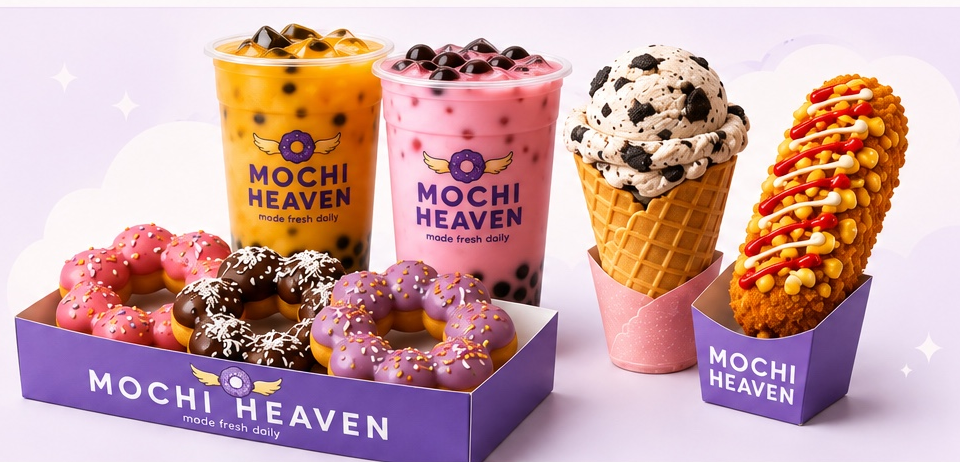
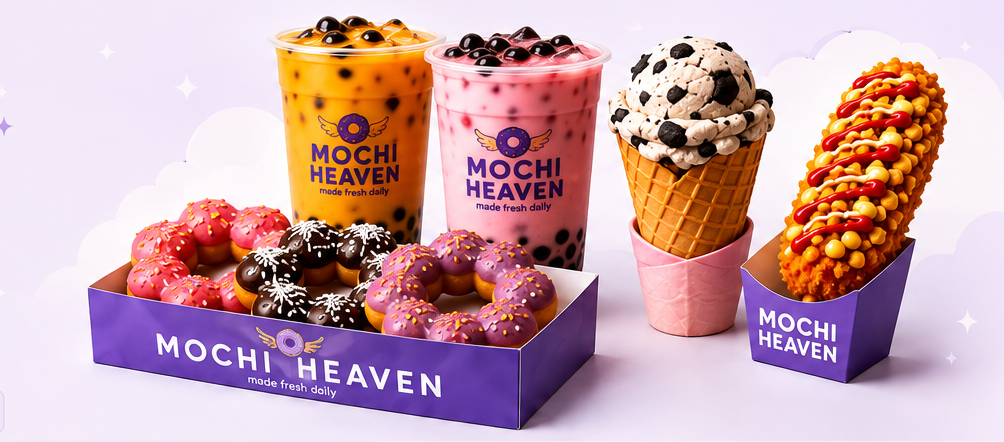
Auto-generated changes

diff --git a/frontend/src/styles.css b/frontend/src/styles.css
@@ -35,7 +35,7 @@
 .menu-toggle{display:none;background:none;border:0;color:var(--deep)}
 
 /* ---------- HERO ---------- */
-.hero{background:linear-gradient(135deg,#f7f1ff 0%,#ece0fb 60%,#f3ecfc 100%);border-bottom:1px solid #eee3fb;overflow:hidden;position:relative}
+.hero{background:linear-gradient(135deg,#f4ebfb 0%,#efe4f9 58%,#f3e9fb 100%);border-bottom:1px solid #eee3fb;overflow:hidden;position:relative}
 .hero:before{content:"";position:absolute;top:-120px;right:-80px;width:420px;height:420px;background:radial-gradient(circle,rgba(255,255,255,.7),transparent 70%);border-radius:50%}
 .hero-inner{min-height:520px;display:grid;grid-template-columns:36% 64%;align-items:center;gap:20px;padding:44px 24px 34px;position:relative}
 .hero-copy{padding-left:20px}
@@ -49,7 +49,7 @@
 .favorite-box span{color:var(--purple);font-weight:900;font-size:.72rem;letter-spacing:.06em}
 .favorite-box strong{font-family:"Baloo 2";color:var(--purple);font-size:1.35rem;font-style:italic;display:inline-flex;align-items:center;gap:4px}
 .hero-image-wrap{position:relative;display:flex;align-items:center;justify-content:center}
-.hero-image-wrap img{width:100%;height:auto;object-fit:contain;filter:drop-shadow(0 22px 24px rgba(94,53,165,.20))}
+.hero-image-wrap img{width:100%;height:auto;object-fit:contain;-webkit-mask-image:linear-gradient(to right,transparent 0,#000 13%,#000 100%);mask-image:linear-gradient(to right,transparent 0,#000 13%,#000 100%)}
 .spark{position:absolute;color:#b98bff;z-index:2;filter:drop-shadow(0 2px 4px rgba(148,99,207,.3))}
 .spark.s1{top:12%;left:6%}
 .spark.s2{top:26%;right:12%;color:#e6b3ff}
@@ -83,6 +83,31 @@
 .feature-icon{color:var(--purple);flex-shrink:0}
 .feature-strip strong{display:block;color:var(--deep);font-size:.86rem;letter-spacing:.02em}
 .feature-strip small{display:block;color:#5b5268;font-size:.78rem;line-height:1.35;margin-top:2px}
+
+/* ---------- ABOUT US (home) ---------- */
+.about-home{padding:80px 0;background:#fff}
+.about-home-grid{display:grid;grid-template-columns:1fr 1.05fr;gap:56px;align-items:center}
+.about-home-photo{height:400px;border-radius:28px;overflow:hidden;background:linear-gradient(135deg,#f4ebfb,#e9ddf8);display:grid;place-items:center;color:var(--muted);font-weight:900;box-shadow:var(--shadow);border:1px solid var(--line)}
+.about-home-photo img{width:100%;height:100%;object-fit:cover}
+.about-home h2{font-size:clamp(2.2rem,3.8vw,3rem);color:var(--deep);margin:6px 0 16px;line-height:1.05}
+.about-home-body{color:#4b4360;font-size:1.08rem;line-height:1.8;margin:0 0 24px;max-width:520px}
+
+/* ---------- NEWSLETTER ---------- */
+.newsletter{padding:0 0 84px;background:#fff}
+.newsletter-card{position:relative;overflow:hidden;text-align:center;border-radius:30px;padding:54px 34px;background:linear-gradient(135deg,#7f59c6,#5d35a5);color:#fff;box-shadow:0 26px 60px rgba(94,53,165,.28)}
+.newsletter-card:before{content:"";position:absolute;top:-90px;right:-60px;width:280px;height:280px;background:radial-gradient(circle,rgba(255,255,255,.14),transparent 70%);border-radius:50%}
+.newsletter-card:after{content:"";position:absolute;bottom:-100px;left:-60px;width:280px;height:280px;background:radial-gradient(circle,rgba(255,255,255,.1),transparent 70%);border-radius:50%}
+.newsletter-icon{position:relative;width:60px;height:60px;border-radius:50%;background:rgba(255,255,255,.16);display:grid;place-items:center;margin:0 auto 14px}
+.newsletter-card .eyebrow{color:#e6d6ff;position:relative}
+.newsletter-card h2{position:relative;font-size:clamp(2.2rem,4vw,3rem);margin:0 0 12px;color:#fff}
+.newsletter-sub{position:relative;color:#eadffb;max-width:560px;margin:0 auto 26px;line-height:1.65;font-size:1.02rem}
+.newsletter-form{position:relative;display:flex;gap:12px;max-width:520px;margin:0 auto;flex-wrap:wrap;justify-content:center}
+.newsletter-input{flex:1;min-width:240px;border:0;border-radius:999px;padding:15px 22px;font-size:1rem;color:var(--ink);outline:none;box-shadow:0 6px 16px rgba(0,0,0,.12)}
+.newsletter-input:focus{box-shadow:0 0 0 3px rgba(255,255,255,.5)}
+.newsletter .order-pill{background:#fff;color:var(--deep);box-shadow:0 8px 20px rgba(0,0,0,.18)}
+.newsletter .order-pill:hover{background:#f3ecff}
+.newsletter-success{position:relative;display:inline-flex;align-items:center;gap:10px;background:rgba(255,255,255,.16);border:1px solid rgba(255,255,255,.35);color:#fff;font-weight:800;padding:15px 24px;border-radius:16px;max-width:560px;margin:0 auto;line-height:1.5}
+.newsletter-error{position:relative;display:block;margin-top:12px;color:#ffd9e4;font-weight:800;font-size:.88rem}
 
 /* ---------- SHARED PAGE HERO ---------- */
 .page-hero{padding:70px 0 46px;background:linear-gradient(135deg,#faf7ff,#ece0fb);text-align:center;border-bottom:1px solid #eee3fb}
@@ -234,7 +259,7 @@ textarea.field{resize:vertical;font-family:inherit}
   .cards,.product-grid{grid-template-columns:repeat(2,1fr)}
   .feature-strip{grid-template-columns:1fr 1fr}
   .feature-strip>div:nth-child(2){border-right:0}
-  .about-grid,.visit-layout,.footer-inner{grid-template-columns:1fr}
+  .about-grid,.visit-layout,.footer-inner,.about-home-grid{grid-template-columns:1fr}
   .footer-inner{gap:26px}
 }
 @media(max-width:760px){

diff --git a/frontend/src/pages/Home.js b/frontend/src/pages/Home.js
@@ -4,6 +4,7 @@ import { motion } from "framer-motion";
 import { MapPin, ArrowUpRight, Sparkles, Leaf, Heart, Smile, ArrowRight } from "lucide-react";
 import { useContent } from "../context/ContentContext";
 import Reveal from "../components/Reveal";
+import Newsletter from "../components/Newsletter";
 
 const FEATURE_ICONS = { sparkles: Sparkles, leaf: Leaf, heart: Heart, smile: Smile };
 const PUB = process.env.PUBLIC_URL || "";
@@ -27,6 +28,7 @@ export default function Home() {
   const [filter, setFilter] = useState("all");
 
   const shown = content.categories.filter((c) => filter === "all" || c.id === filter);
+  const about = site.about;
 
   return (
     <main>
@@ -60,19 +62,13 @@ export default function Home() {
 
           <motion.div
             className="hero-image-wrap"
-            initial={{ opacity: 0, scale: 0.9 }}
-            animate={{ opacity: 1, scale: 1 }}
-            transition={{ duration: 0.8, delay: 0.15, ease: [0.22, 1, 0.36, 1] }}
+            initial={{ opacity: 0 }}
+            animate={{ opacity: 1 }}
+            transition={{ duration: 0.9, delay: 0.1, ease: "easeOut" }}
           >
-            <Sparkle className="s1" size={22} delay={0} />
-            <Sparkle className="s2" size={16} delay={0.6} />
-            <Sparkle className="s3" size={26} delay={1.2} />
-            <Sparkle className="s4" size={14} delay={1.8} />
-            <motion.img
+            <img
               src={`${PUB}/assets/hero-products.png`}
               alt="Mochi Heaven featured products"
-              animate={{ y: [0, -14, 0] }}
-              transition={{ duration: 5.5, repeat: Infinity, ease: "easeInOut" }}
               data-testid="hero-image"
             />
           </motion.div>
@@ -152,6 +148,30 @@ export default function Home() {
           </Reveal>
         </div>
       </section>
+
+      {/* ABOUT US */}
+      <section className="about-home" id="about-us" data-testid="about-home-section">
+        <div className="shell about-home-grid">
+          <Reveal className="about-home-photo" data-testid="about-home-photo">
+            {about.photo ? (
+              <img src={about.photo.startsWith("/assets") ? PUB + about.photo : about.photo} alt="Mochi Heaven" />
+            ) : (
+              <span>ADD STORE OR TEAM PHOTO</span>
+            )}
+          </Reveal>
+          <Reveal delay={0.1}>
+            <p className="eyebrow">{about.eyebrow}</p>
+            <h2>{about.title}</h2>
+            <p className="about-home-body">{about.body}</p>
+            <Link className="visit-pill" to="/about" data-testid="about-home-readmore">
+              <span>Read our story</span> <ArrowRight size={17} />
+            </Link>
+          </Reveal>
+        </div>
+      </section>
+
+      {/* NEWSLETTER */}
+      <Newsletter />
     </main>
   );
 }

diff --git a/frontend/src/components/Newsletter.js b/frontend/src/components/Newsletter.js
@@ -1,0 +1,77 @@
+import React, { useState } from "react";
+import { motion } from "framer-motion";
+import { Mail, Check, Send } from "lucide-react";
+import { useContent } from "../context/ContentContext";
+
+export default function Newsletter() {
+  const { content } = useContent();
+  const n = content.site.newsletter || {};
+  const [email, setEmail] = useState("");
+  const [done, setDone] = useState(false);
+  const [error, setError] = useState("");
+
+  const submit = async (e) => {
+    e.preventDefault();
+    const valid = /^[^\s@]+@[^\s@]+\.[^\s@]+$/.test(email);
+    if (!valid) {
+      setError("Please enter a valid email address.");
+      return;
+    }
+    setError("");
+    const url = (n.actionUrl || "").trim();
+    if (url) {
+      try {
+        await fetch(url, {
+          method: "POST",
+          headers: { "Content-Type": "application/json", Accept: "application/json" },
+          body: JSON.stringify({ email }),
+        });
+      } catch (err) {
+        /* form services may block CORS; treat as fire-and-forget */
+      }
+    }
+    setDone(true);
+    setEmail("");
+  };
+
+  return (
+    <section className="newsletter" id="newsletter" data-testid="newsletter-section">
+      <div className="shell">
+        <motion.div
+          className="newsletter-card"
+          initial={{ opacity: 0, y: 26 }}
+          whileInView={{ opacity: 1, y: 0 }}
+          viewport={{ once: true, amount: 0.3 }}
+          transition={{ duration: 0.6, ease: [0.22, 1, 0.36, 1] }}
+        >
+          <div className="newsletter-icon"><Mail size={26} /></div>
+          <p className="eyebrow">{n.eyebrow}</p>
+          <h2>{n.title}</h2>
+          <p className="newsletter-sub">{n.subtitle}</p>
+
+          {done ? (
+            <div className="newsletter-success" data-testid="newsletter-success">
+              <Check size={20} /> {n.successMessage}
+            </div>
+          ) : (
+            <form className="newsletter-form" onSubmit={submit}>
+              <input
+                type="email"
+                className="newsletter-input"
+                placeholder={n.placeholder || "you@email.com"}
+                value={email}
+                onChange={(e) => setEmail(e.target.value)}
+                aria-label="Email address"
+                data-testid="newsletter-email"
+              />
+              <button className="order-pill" type="submit" data-testid="newsletter-submit">
+                {n.buttonText || "Subscribe"} <Send size={15} />
+              </button>
+            </form>
+          )}
+          {error && <span className="newsletter-error" data-testid="newsletter-error">{error}</span>}
+        </motion.div>
+      </div>
+    </section>
+  );
+}

diff --git a/frontend/src/pages/Admin.js b/frontend/src/pages/Admin.js
@@ -300,6 +300,23 @@ export default function Admin() {
             </section>
 
             <section className="admin-block">
+              <h3>Newsletter</h3>
+              <div className="grid2">
+                <div><label className="field-label">Title</label>
+                  <input className="field" value={draft.site.newsletter.title} onChange={(e) => setNested("newsletter", { title: e.target.value })} /></div>
+                <div><label className="field-label">Button text</label>
+                  <input className="field" value={draft.site.newsletter.buttonText} onChange={(e) => setNested("newsletter", { buttonText: e.target.value })} /></div>
+              </div>
+              <label className="field-label">Subtitle</label>
+              <textarea className="field" rows={2} value={draft.site.newsletter.subtitle} onChange={(e) => setNested("newsletter", { subtitle: e.target.value })} />
+              <label className="field-label">Success message (shown after someone subscribes)</label>
+              <input className="field" value={draft.site.newsletter.successMessage} onChange={(e) => setNested("newsletter", { successMessage: e.target.value })} />
+              <label className="field-label">Form endpoint URL (optional — e.g. a Formspree/Mailchimp form action)</label>
+              <input className="field mono" placeholder="https://formspree.io/f/xxxx" value={draft.site.newsletter.actionUrl} onChange={(e) => setNested("newsletter", { actionUrl: e.target.value })} />
+              <small className="muted">Leave empty to just show a thank-you message. Paste a form service endpoint to actually collect emails (the form POSTs the email there).</small>
+            </section>
+
+            <section className="admin-block">
               <h3>Highlights strip</h3>
               <div className="grid2">
                 {draft.site.features.map((f, i) => (
